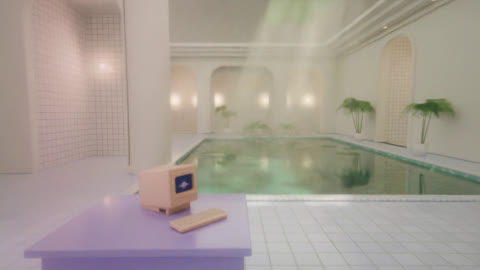
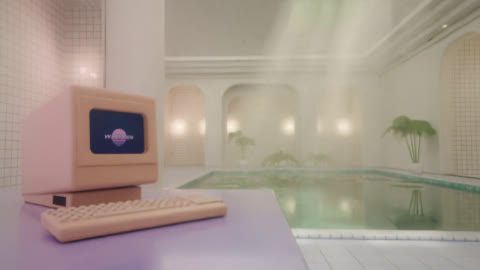
Doorway views as their own presets
palm_solarium, lotus_court and moonlit_conservatory go back to the house
camera; palm_solarium_doorway, lotus_court_doorway and
moonlit_conservatory_doorway build on them and change only the camera, so
both views of each room stay one --preset away.

diff --git a/tests/test_presets.py b/tests/test_presets.py
@@ -109,3 +109,20 @@ def test_the_mood_presets_build_on_the_matched_poolrooms():
         assert cfg["room"] == base["room"] and cfg["pool"]["notch"] == base["pool"]["notch"]   # same room
         assert cfg["computer"]["tilt"] == base["computer"]["tilt"]
         assert cfg["palette"]["plaster"] != base["palette"]["plaster"]                         # its own mood
+
+
+DOORWAY = {"location": [-0.5, -2.4, 1.75], "lens": (22.0, 24.0)}
+
+
+def test_the_nature_rooms_keep_the_house_view_and_their_doorway_twins_look_down():
+    house = config.load("poolrooms")["camera"]
+    for room in ("palm_solarium", "lotus_court", "moonlit_conservatory"):
+        cfg = config.load(room)
+        assert cfg["camera"] == house, f"{room} keeps the house camera"
+        twin = config.load(f"{room}_doorway")
+        info = config.preset_info(f"{room}_doorway")
+        assert info["extends"] == room and "doorway" in info["description"]
+        assert twin["camera"]["location"] == DOORWAY["location"] and twin["camera"]["lens"] in DOORWAY["lens"]
+        twin.pop("camera"), cfg.pop("camera")
+        assert twin.pop("name") == f"{room}_doorway" and cfg.pop("name") == room
+        assert twin == cfg, f"{room}_doorway changes only the camera"

diff --git a/docs/PRESETS.md b/docs/PRESETS.md
@@ -10,10 +10,13 @@ poolrooms
 ├── catenary_nave
 ├── lavender_hall
 ├── palm_solarium
+│   └── palm_solarium_doorway
 ├── poolrooms_dusk
 │   └── lotus_court
+│       └── lotus_court_doorway
 ├── poolrooms_night
 │   └── moonlit_conservatory
+│       └── moonlit_conservatory_doorway
 └── rose_natatorium
 ```
 
@@ -41,11 +44,21 @@ Lavender hall: a tall violet room with one very wide back arch, matched to the W
 
 ![lotus_court](presets/lotus_court.jpg)
 
-Lotus court: the dusk room as a water garden, seen from the doorway looking down onto the water. Lily pads drift in clusters with pink blooms, ferns soften the edges, the floor is laid in honeycomb.
+Lotus court: the dusk room as a water garden. Lily pads drift in clusters with pink blooms, ferns soften the edges, the floor is laid in honeycomb.
 
 - Builds on `poolrooms_dusk` (lineage: lotus_court -> poolrooms_dusk -> poolrooms)
 - Tags: nature, dusk, pink, water-garden
-- Changes: palette (2), room (1), nature (7), camera (3)
+- Changes: palette (2), room (1), nature (7)
+
+## lotus_court_doorway
+
+![lotus_court_doorway](presets/lotus_court_doorway.jpg)
+
+Lotus court from the doorway: the same water garden seen from higher up, looking down onto the water, so the lily pads and their blooms show in full.
+
+- Builds on `lotus_court` (lineage: lotus_court_doorway -> lotus_court -> poolrooms_dusk -> poolrooms)
+- Tags: nature, dusk, pink, water-garden, doorway
+- Changes: camera (3)
 
 ## moonlit_conservatory
 
@@ -55,17 +68,37 @@ Moonlit conservatory: the night room under an open canopy. Pale moonbeams slant 
 
 - Builds on `poolrooms_night` (lineage: moonlit_conservatory -> poolrooms_night -> poolrooms)
 - Tags: nature, night, blue, moon
-- Changes: palette (1), nature (9), atmosphere (1), camera (3)
+- Changes: palette (1), nature (9), atmosphere (1)
+
+## moonlit_conservatory_doorway
+
+![moonlit_conservatory_doorway](presets/moonlit_conservatory_doorway.jpg)
+
+Moonlit conservatory from the doorway: the same night room seen from higher up, looking down the moonbeams onto the water.
+
+- Builds on `moonlit_conservatory` (lineage: moonlit_conservatory_doorway -> moonlit_conservatory -> poolrooms_night -> poolrooms)
+- Tags: nature, night, blue, moon, doorway
+- Changes: camera (3)
 
 ## palm_solarium
 
 ![palm_solarium](presets/palm_solarium.jpg)
 
-Palm solarium: an ivory greenhouse. Sun shafts slant through a leaf canopy and dapple the pool floor; areca palms and ferns in planters, lily pads on sea-green water, seen from the doorway.
+Palm solarium: an ivory greenhouse. Sun shafts slant through a leaf canopy into the haze and dapple the walls and water; areca palms and ferns in planters, lily pads on sea-green water.
 
 - Builds on `poolrooms` (lineage: palm_solarium -> poolrooms)
 - Tags: nature, day, green, sun
-- Changes: palette (9), nature (11), atmosphere (1), post (1), camera (3)
+- Changes: palette (9), nature (11), atmosphere (1), post (1)
+
+## palm_solarium_doorway
+
+![palm_solarium_doorway](presets/palm_solarium_doorway.jpg)
+
+Palm solarium from the doorway: the same greenhouse seen from higher up, looking down the room, so the sun's dapples on the pool floor and the lily pads show.
+
+- Builds on `palm_solarium` (lineage: palm_solarium_doorway -> palm_solarium -> poolrooms)
+- Tags: nature, day, green, sun, doorway
+- Changes: camera (3)
 
 ## poolrooms
 

diff --git a/docs/REFERENCE_SWEEP.md b/docs/REFERENCE_SWEEP.md
@@ -101,7 +101,7 @@ setting fixes without costing elsewhere.
 Each is a preset: a JSON file of overrides on `wavegen/config.py`. Presets
 `poolrooms_dusk`, `poolrooms_night`, `rose_natatorium`, `lavender_hall`,
 `palm_solarium`, `catenary_nave`, `lotus_court` and `moonlit_conservatory`
-already exist; see [`PRESETS.md`](PRESETS.md) for thumbnails.
+already exist, the three nature rooms also as `*_doorway` views; see [`PRESETS.md`](PRESETS.md) for thumbnails.
 
 ### Possible today, with config values only
 - **Rose Natatorium** (`rose_natatorium`, done). Blush plaster, cream tile, peach
@@ -121,17 +121,19 @@ already exist; see [`PRESETS.md`](PRESETS.md) for thumbnails.
 ### Nature and biomimicry (the `nature` section, now built)
 - **Palm Solarium** (`palm_solarium`, done). Sun from beyond the far wall
   slants through a swaying leaf canopy as god rays (`nature.skylight.beams`)
-  and dapples the pool floor; areca palms and ferns, lily pads on sea-green
-  water. The camera stands back in the doorway, higher and looking down, so
-  the water shows its floor instead of mirroring the room.
+  and dapples the walls and water; areca palms and ferns, lily pads on
+  sea-green water. `palm_solarium_doorway` stands the camera back in the
+  doorway, higher and looking down, so the water shows its floor and the
+  sun's dapples on it instead of mirroring the room.
 - **Catenary Nave** (`catenary_nave`, done). Gaudí's poolroom: hanging-chain
   (`room.catenary`) arches, tree columns that branch into the ceiling like the
   Sagrada Família's, a honeycomb floor (`room.floor_pattern: "hex"`).
-- **Lotus Court** (`lotus_court`, done). The dusk room as a water garden,
-  seen from the same doorway camera: clustered lily pads in bloom, ferns,
-  honeycomb floor.
+- **Lotus Court** (`lotus_court`, done). The dusk room as a water garden:
+  clustered lily pads in bloom, ferns, honeycomb floor. `lotus_court_doorway`
+  looks down onto the water from the doorway, so the pads show in full.
 - **Moonlit Conservatory** (`moonlit_conservatory`, done). The night room with
-  pale moonbeams slanting through the canopy into the haze.
+  pale moonbeams slanting through the canopy into the haze; also from the
+  doorway as `moonlit_conservatory_doorway`.
 
 Why the beams need their own haze: the room's haze is lit by the cove and
 alcove lights everywhere, which lifts it as much as the sun lifts the shaft,

diff --git a/README.md b/README.md
@@ -66,10 +66,11 @@ python -m wavegen still --set camera.lens=18 --set palette.water=[0.7,0.9,1.0] \
 | `poolrooms_night` | builds on `poolrooms`: after hours, deep blue, magenta neon, thick haze, long reverb |
 | `rose_natatorium` | builds on `poolrooms`: blush plaster, cream tile, peach lamps, lilac water |
 | `lavender_hall` | builds on `poolrooms`: a tall violet room with one wide back arch, in the emblem's purples |
-| `palm_solarium` | builds on `poolrooms`: an ivory greenhouse, sun shafts through a leaf canopy dappling the pool floor, palms, ferns, lilies |
+| `palm_solarium` | builds on `poolrooms`: an ivory greenhouse, sun shafts through a leaf canopy into the haze, palms, ferns, lilies |
 | `catenary_nave` | builds on `poolrooms`: Gaudí's poolroom, hanging-chain arches, branching tree columns, a honeycomb floor, sandstone and teal |
-| `lotus_court` | builds on `poolrooms_dusk`: a dusk water garden seen from the doorway, lily pads in bloom, ferns, honeycomb floor |
+| `lotus_court` | builds on `poolrooms_dusk`: a dusk water garden, lily pads in bloom, ferns, honeycomb floor |
 | `moonlit_conservatory` | builds on `poolrooms_night`: pale moonbeams slanting through the canopy into the haze, palms in the dark |
+| `palm_solarium_doorway`, `lotus_court_doorway`, `moonlit_conservatory_doorway` | the same three rooms from the doorway: higher and looking down, so the pool floor's sun dapples and the lily pads show |
 
 [`docs/PRESETS.md`](docs/PRESETS.md) shows every preset with a thumbnail and its family tree.
 
